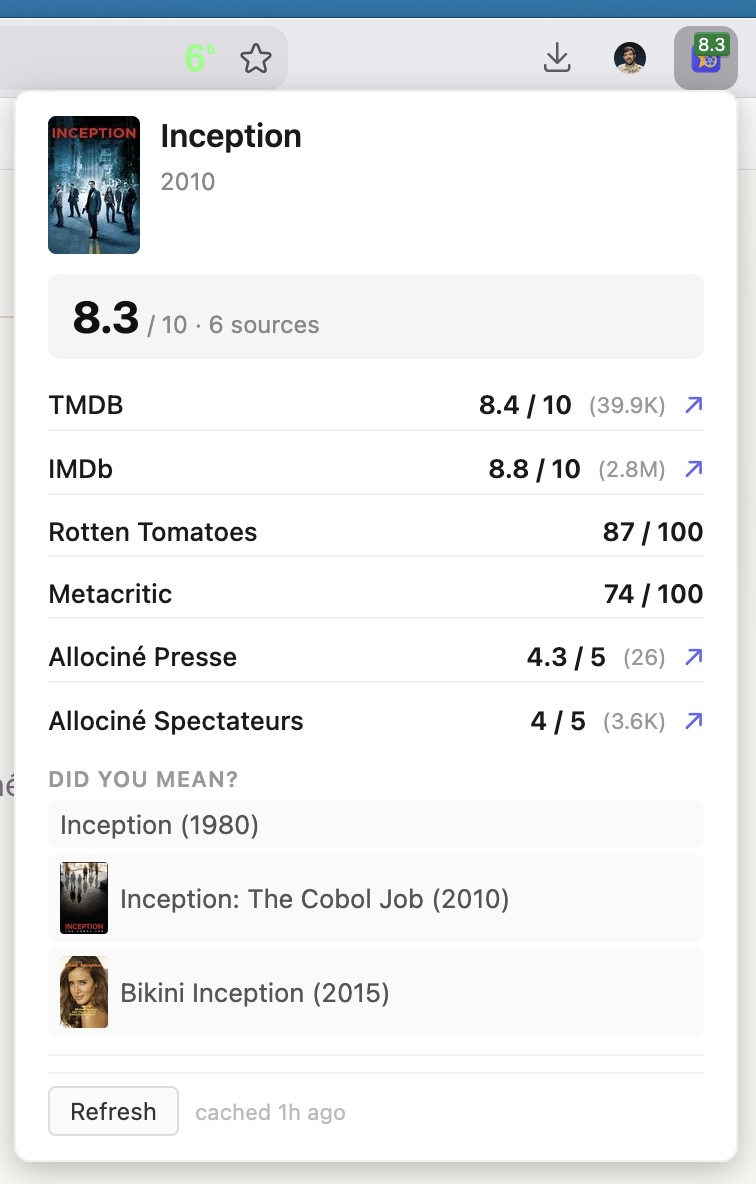
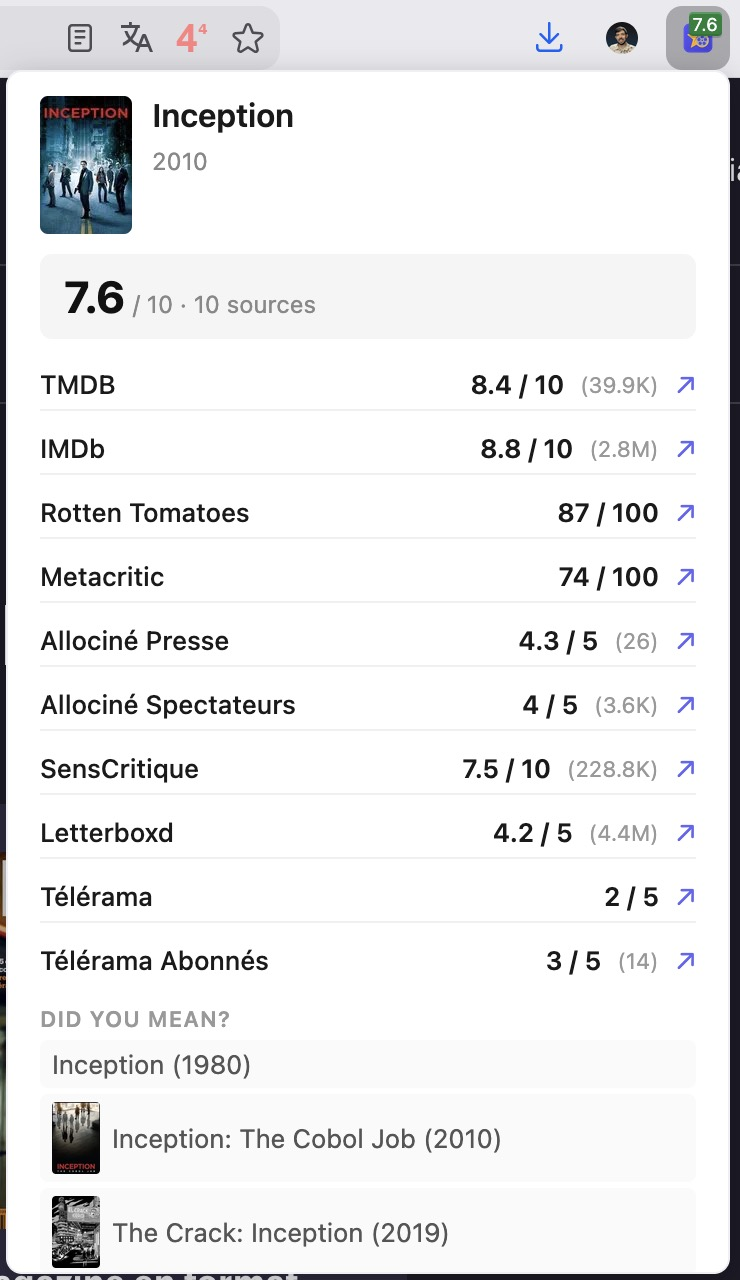
✨ feat: v2 features

diff --git a/index.html b/index.html
@@ -1,12 +1,12 @@
 <meta charset="utf-8">
 <meta name="viewport" content="width=device-width, initial-scale=1">
 <title>Ratearr</title>
-<meta name="description" content="Ratearr aggregates movie and TV ratings from 6 sources — including Allocin&eacute; critics and audience — right in your browser toolbar. One glance, every score.">
+<meta name="description" content="Ratearr aggregates movie and TV ratings from 10 sources — including Allocin&eacute;, SensCritique, Letterboxd, and T&eacute;l&eacute;rama — right in your browser toolbar. One glance, every score.">
 
 <!-- Open Graph -->
 <meta property="og:type" content="website">
 <meta property="og:title" content="Ratearr — Every movie rating. One glance.">
-<meta property="og:description" content="Ratearr aggregates movie and TV ratings from 6 sources — including Allocin&eacute; critics and audience — right in your browser toolbar.">
+<meta property="og:description" content="Ratearr aggregates movie and TV ratings from 10 sources — including Allocin&eacute;, SensCritique, Letterboxd, and T&eacute;l&eacute;rama — right in your browser toolbar.">
 <meta property="og:url" content="https://www.ratearr.com/">
 <meta property="og:image" content="https://www.ratearr.com/assets/img/icon-512.png">
 <meta property="og:image:width" content="512">
@@ -19,7 +19,7 @@
 <!-- Twitter Card -->
 <meta name="twitter:card" content="summary">
 <meta name="twitter:title" content="Ratearr — Every movie rating. One glance.">
-<meta name="twitter:description" content="Ratearr aggregates movie and TV ratings from 6 sources — including Allocin&eacute; critics and audience — right in your browser toolbar.">
+<meta name="twitter:description" content="Ratearr aggregates movie and TV ratings from 10 sources — including Allocin&eacute;, SensCritique, Letterboxd, and T&eacute;l&eacute;rama — right in your browser toolbar.">
 <meta name="twitter:image" content="https://www.ratearr.com/assets/img/icon-512.png">
 <meta name="twitter:image:alt" content="Ratearr logo">
 
@@ -225,8 +225,8 @@
     letter-spacing: 1.4px; color: var(--muted); margin-bottom: 20px;
   }
   .sources-strip {
-    display: grid; grid-template-columns: repeat(3, 1fr);
-    gap: 10px; max-width: 420px; margin: 0 auto;
+    display: grid; grid-template-columns: repeat(5, 1fr);
+    gap: 10px; max-width: 680px; margin: 0 auto;
   }
   .source-chip {
     display: flex; flex-direction: column; align-items: center; gap: 4px;
@@ -311,7 +311,11 @@
     padding: 0 16px 14px 44px; font-size: 13px; color: var(--muted); line-height: 1.6;
   }
 
+  @media (max-width: 680px) {
+    .sources-strip { grid-template-columns: repeat(3, 1fr); }
+  }
   @media (max-width: 520px) {
+    .sources-strip { grid-template-columns: repeat(2, 1fr); }
     .safety-grid { grid-template-columns: 1fr; }
   }
 
@@ -382,7 +386,7 @@
         <h1 data-i18n-html="hero_title">Every movie rating.<br><em>One glance.</em></h1>
       </div>
     </div>
-    <p class="hero-sub" data-i18n="hero_sub">Ratearr aggregates scores from 6 sources — including Allocin&eacute; critics and audience as separate ratings — right in your browser toolbar.</p>
+    <p class="hero-sub" data-i18n="hero_sub">Ratearr aggregates scores from 10 sources — TMDB, IMDb, Rotten Tomatoes, Metacritic, Allocin&eacute;, SensCritique, Letterboxd, and T&eacute;l&eacute;rama — right in your browser toolbar.</p>
     <div class="cta-row">
       <a class="btn btn-primary" href="https://addons.mozilla.org/" data-i18n="cta_install">Install for Firefox</a>
       <a class="btn btn-secondary" href="https://github.com/davidaparicio/ratearr" data-i18n="cta_source">View Source</a>
@@ -398,8 +402,8 @@
           </div>
         </div>
         <div class="mock-aggregate">
-          <span class="mock-agg-score">8.3</span>
-          <span class="mock-agg-meta">/ 10 &middot; 6 sources</span>
+          <span class="mock-agg-score">8.2</span>
+          <span class="mock-agg-meta">/ 10 &middot; 8 sources</span>
         </div>
         <div class="mock-row">
           <span class="mock-source">TMDB</span>
@@ -416,10 +420,12 @@
         <div class="mock-row">
           <span class="mock-source">Rotten Tomatoes</span>
           <span class="mock-value">87 / 100</span>
+          <span class="mock-link" data-i18n-title="tip_rt" title="Search Inception on Rotten Tomatoes">&nearr;</span>
         </div>
         <div class="mock-row">
           <span class="mock-source">Metacritic</span>
           <span class="mock-value">74 / 100</span>
+          <span class="mock-link" data-i18n-title="tip_metacritic" title="Search Inception on Metacritic">&nearr;</span>
         </div>
         <div class="mock-row">
           <span class="mock-source">Allocin&eacute; Presse</span>
@@ -433,18 +439,30 @@
           <span class="mock-count">(3.6K)</span>
           <span class="mock-link" data-i18n-title="tip_allocine" title="View Inception on Allocin&eacute;">&nearr;</span>
         </div>
+        <div class="mock-row">
+          <span class="mock-source">SensCritique</span>
+          <span class="mock-value">7.5 / 10</span>
+          <span class="mock-count">(228.8K)</span>
+          <span class="mock-link" data-i18n-title="tip_senscritique" title="View Inception on SensCritique">&nearr;</span>
+        </div>
+        <div class="mock-row">
+          <span class="mock-source">Letterboxd</span>
+          <span class="mock-value">4.2 / 5</span>
+          <span class="mock-count">(4.4M)</span>
+          <span class="mock-link" data-i18n-title="tip_letterboxd" title="View Inception on Letterboxd">&nearr;</span>
+        </div>
         <div class="mock-dym">
           <div class="mock-dym-header" data-i18n="mock_dym">Did you mean?</div>
           <div class="mock-dym-row">Inception (1980)</div>
           <div class="mock-dym-row">Inception: The Cobol Job (2010)</div>
-          <div class="mock-dym-row">Bikini Inception (2015)</div>
+          <div class="mock-dym-row">The Crack: Inception (2019)</div>
         </div>
       </div>
     </div>
   </section>
 
   <section class="sources-section" id="sources">
-    <div class="section-label" data-i18n="sources_label">6 sources, native scales</div>
+    <div class="section-label" data-i18n="sources_label">10 sources, native scales</div>
     <div class="sources-strip">
       <div class="source-chip"><span class="chip-name">TMDB</span><span class="chip-scale">/ 10</span></div>
       <div class="source-chip"><span class="chip-name">IMDb</span><span class="chip-scale">/ 10</span></div>
@@ -452,6 +470,10 @@
       <div class="source-chip"><span class="chip-name">Metacritic</span><span class="chip-scale">/ 100</span></div>
       <div class="source-chip"><span class="chip-name">Allocin&eacute; Presse</span><span class="chip-scale">/ 5</span></div>
       <div class="source-chip"><span class="chip-name">Allocin&eacute; Spectateurs</span><span class="chip-scale">/ 5</span></div>
+      <div class="source-chip"><span class="chip-name">SensCritique</span><span class="chip-scale">/ 10</span></div>
+      <div class="source-chip"><span class="chip-name">Letterboxd</span><span class="chip-scale">/ 5</span></div>
+      <div class="source-chip"><span class="chip-name">T&eacute;l&eacute;rama</span><span class="chip-scale">/ 5</span></div>
+      <div class="source-chip"><span class="chip-name">T&eacute;l&eacute;rama Abonn&eacute;s</span><span class="chip-scale">/ 5</span></div>
     </div>
   </section>
 
@@ -461,7 +483,7 @@
       <div class="feature-card">
         <span class="feature-icon" aria-hidden="true">&#9881;</span>
         <h3 data-i18n="f1_title">Auto-detect</h3>
-        <p data-i18n="f1_desc">Recognizes titles on IMDb, TMDB, and Allocin&eacute; automatically — including SPA page transitions.</p>
+        <p data-i18n="f1_desc">Recognizes titles on 8 sites — IMDb, TMDB, Allocin&eacute;, Netflix, Prime Video, and Disney+ — including SPA transitions.</p>
       </div>
       <div class="feature-card">
         <span class="feature-icon" aria-hidden="true">&#128269;</span>
@@ -488,6 +510,16 @@
         <h3 data-i18n="f6_title">Allocin&eacute; split</h3>
         <p data-i18n="f6_desc">The only aggregator that shows Allocin&eacute; critics and audience scores as separate ratings.</p>
       </div>
+      <div class="feature-card">
+        <span class="feature-icon" aria-hidden="true">&#9000;</span>
+        <h3 data-i18n="f7_title">Keyboard shortcut</h3>
+        <p data-i18n="f7_desc">Press Alt+R to open the popup instantly. Customizable in your browser's extension shortcuts.</p>
+      </div>
+      <div class="feature-card">
+        <span class="feature-icon" aria-hidden="true">&#128230;</span>
+        <h3 data-i18n="f8_title">Export / Import</h3>
+        <p data-i18n="f8_desc">Back up your settings as JSON from the options page. Restore them on any browser in one click.</p>
+      </div>
     </div>
   </section>
 
@@ -502,12 +534,12 @@
       <div class="step">
         <div class="step-num">2</div>
         <h3 data-i18n="s2_title">Browse</h3>
-        <p data-i18n="s2_desc">Visit any movie page on IMDb, TMDB, or Allocin&eacute;. Or select a title anywhere and right-click.</p>
+        <p data-i18n="s2_desc">Visit any movie page on IMDb, TMDB, Allocin&eacute;, Netflix, Prime Video, or Disney+. Or select a title anywhere and right-click.</p>
       </div>
       <div class="step">
         <div class="step-num">3</div>
         <h3 data-i18n="s3_title">Compare</h3>
-        <p data-i18n="s3_desc">Click the toolbar icon. Six sources, native scales, one popup. The badge shows the aggregate.</p>
+        <p data-i18n="s3_desc">Click the toolbar icon — or press Alt+R. Ten sources, native scales, one popup. The badge shows the aggregate.</p>
       </div>
     </div>
   </section>
@@ -520,7 +552,7 @@
         <span class="safety-icon" aria-hidden="true">&#10007;</span>
         <div>
           <strong data-i18n="ds1_title">No data shared with third parties</strong>
-          <p data-i18n="ds1_desc">Ratearr never sends your data to third parties. API calls go directly from your browser to TMDB, OMDb, and Allocin&eacute;.</p>
+          <p data-i18n="ds1_desc">Ratearr never sends your data to third parties. API calls go directly from your browser to TMDB, OMDb, Allocin&eacute;, SensCritique, Letterboxd, and T&eacute;l&eacute;rama.</p>
         </div>
       </div>
       <div class="safety-item safety-good">
@@ -561,7 +593,7 @@
       </details>
       <details class="faq-item">
         <summary data-i18n="q4">Does Ratearr work on Chrome?</summary>
-        <p data-i18n="a4">The MVP targets Firefox. Chrome support (Manifest V3) is planned. The codebase uses WXT which handles cross-browser builds.</p>
+        <p data-i18n="a4">The MVP targets Firefox. The codebase uses WXT, which supports Chrome, Firefox, Edge, Opera, and Safari out of the box. Use the <code>-b</code> flag to target any browser (e.g.&nbsp;<code>npm&nbsp;run&nbsp;build:firefox</code>, <code>npx&nbsp;wxt&nbsp;build&nbsp;-b&nbsp;edge</code>). Chrome and Edge produce MV3 builds; Firefox and Safari produce MV2.</p>
       </details>
     </div>
   </section>
@@ -581,7 +613,7 @@ const I18N = {
     nav_features: 'Features',
     hero_eyebrow: 'Browser Extension',
     hero_title: 'Every movie rating.<br><em>One glance.</em>',
-    hero_sub: 'Ratearr aggregates scores from 6 sources — including Allociné critics and audience as separate ratings — right in your browser toolbar.',
+    hero_sub: 'Ratearr aggregates scores from 10 sources — TMDB, IMDb, Rotten Tomatoes, Metacritic, Allociné, SensCritique, Letterboxd, and Télérama — right in your browser toolbar.',
     cta_install: 'Install for Firefox',
     cta_source: 'View Source',
     mock_aria: 'Ratearr popup showing ratings for Inception',
@@ -589,10 +621,14 @@ const I18N = {
     tip_tmdb: 'View Inception on TMDB',
     tip_imdb: 'View Inception on IMDb',
     tip_allocine: 'View Inception on Allociné',
-    sources_label: '6 sources, native scales',
+    tip_rt: 'Search Inception on Rotten Tomatoes',
+    tip_metacritic: 'Search Inception on Metacritic',
+    tip_senscritique: 'View Inception on SensCritique',
+    tip_letterboxd: 'View Inception on Letterboxd',
+    sources_label: '10 sources, native scales',
     features_title: 'Built for how you browse',
     f1_title: 'Auto-detect',
-    f1_desc: 'Recognizes titles on IMDb, TMDB, and Allociné automatically — including SPA page transitions.',
+    f1_desc: 'Recognizes titles on 8 sites — IMDb, TMDB, Allociné, Netflix, Prime Video, and Disney+ — including SPA transitions.',
     f2_title: 'Context Menu',
     f2_desc: 'Select any movie title on any page, right-click, and get ratings instantly.',
     f3_title: 'Bilingual',
@@ -603,17 +639,21 @@ const I18N = {
     f5_desc: 'Ratings are cached locally with a configurable TTL. Repeat visits load instantly.',
     f6_title: 'Allociné split',
     f6_desc: 'The only aggregator that shows Allociné critics and audience scores as separate ratings.',
+    f7_title: 'Keyboard shortcut',
+    f7_desc: 'Press Alt+R to open the popup instantly. Customizable in your browser’s extension shortcuts.',
+    f8_title: 'Export / Import',
+    f8_desc: 'Back up your settings as JSON from the options page. Restore them on any browser in one click.',
     how_title: 'Three steps to all the scores',
     s1_title: 'Install',
     s1_desc: 'Add Ratearr from Firefox Add-ons. Enter your TMDB and OMDb API keys in Settings.',
     s2_title: 'Browse',
-    s2_desc: 'Visit any movie page on IMDb, TMDB, or Allociné. Or select a title anywhere and right-click.',
+    s2_desc: 'Visit any movie page on IMDb, TMDB, Allociné, Netflix, Prime Video, or Disney+. Or select a title anywhere and right-click.',
     s3_title: 'Compare',
-    s3_desc: 'Click the toolbar icon. Six sources, native scales, one popup. The badge shows the aggregate.',
+    s3_desc: 'Click the toolbar icon — or press Alt+R. Ten sources, native scales, one popup. The badge shows the aggregate.',
     nav_faq: 'FAQ',
     faq_title: 'Data Safety & FAQ',
     ds1_title: 'No data shared with third parties',
-    ds1_desc: 'Ratearr never sends your data to third parties. API calls go directly from your browser to TMDB, OMDb, and Allociné.',
+    ds1_desc: 'Ratearr never sends your data to third parties. API calls go directly from your browser to TMDB, OMDb, Allociné, SensCritique, Letterboxd, and Télérama.',
     ds2_title: 'No personal data collected',
     ds2_desc: 'No location, no personal info, no browsing history. The extension only processes the movie title on the current page.',
     ds3_title: 'Data encrypted in transit',
@@ -627,14 +667,14 @@ const I18N = {
     q3: 'Can I delete my cached data?',
     a3: 'Yes. Open the extension options and click "Clear Cache". This removes all stored ratings. Your API keys can be cleared from the same page.',
     q4: 'Does Ratearr work on Chrome?',
-    a4: 'The MVP targets Firefox. Chrome support (Manifest V3) is planned. The codebase uses WXT which handles cross-browser builds.',
+    a4: 'The MVP targets Firefox. The codebase uses WXT, which supports Chrome, Firefox, Edge, Opera, and Safari out of the box. Use the -b flag to target any browser (e.g. npm run build:firefox, npx wxt build -b edge). Chrome and Edge produce MV3 builds; Firefox and Safari produce MV2.',
     footer: 'Built by <a href="https://github.com/davidaparicio">David Aparicio</a> · Open source under MIT',
   },
   fr: {
     nav_features: 'Fonctions',
     hero_eyebrow: 'Extension navigateur',
     hero_title: 'Toutes les notes de films.<br><em>En un coup d’œil.</em>',
-    hero_sub: 'Ratearr regroupe les notes de 6 sources — dont la Presse et les Spectateurs d’Allociné en scores distincts — directement dans votre barre d’outils.',
+    hero_sub: ‘Ratearr regroupe les notes de 10 sources — TMDB, IMDb, Rotten Tomatoes, Metacritic, Allociné, SensCritique, Letterboxd et Télérama — directement dans votre barre d’outils.’,
     cta_install: 'Installer pour Firefox',
     cta_source: 'Voir le code',
     mock_aria: 'Popup Ratearr affichant les notes d’Inception',
@@ -642,10 +682,14 @@ const I18N = {
     tip_tmdb: 'Voir Inception sur TMDB',
     tip_imdb: 'Voir Inception sur IMDb',
     tip_allocine: 'Voir Inception sur Allociné',
-    sources_label: '6 sources, échelles natives',
+    tip_rt: 'Chercher Inception sur Rotten Tomatoes',
+    tip_metacritic: 'Chercher Inception sur Metacritic',
+    tip_senscritique: 'Voir Inception sur SensCritique',
+    tip_letterboxd: 'Voir Inception sur Letterboxd',
+    sources_label: '10 sources, échelles natives',
     features_title: 'Conçu pour votre navigation',
     f1_title: 'Détection auto',
-    f1_desc: 'Reconnaît les titres sur IMDb, TMDB et Allociné automatiquement — y compris les navigations SPA.',
+    f1_desc: 'Reconnaît les titres sur 8 sites — IMDb, TMDB, Allociné, Netflix, Prime Video et Disney+ — y compris les navigations SPA.',
     f2_title: 'Menu contextuel',
     f2_desc: 'Sélectionnez un titre de film sur n’importe quelle page, clic droit, et obtenez les notes instantanément.',
     f3_title: 'Bilingue',
@@ -654,19 +698,23 @@ const I18N = {
     f4_desc: 'Aucun tracking, aucune analyse, aucun compte. Les clés API restent dans le stockage local de votre navigateur.',
     f5_title: 'Cache rapide',
     f5_desc: 'Les notes sont mises en cache localement avec un TTL configurable. Les revisites chargent instantanément.',
-    f6_title: 'Allociné séparé',
-    f6_desc: 'Le seul agrégateur qui affiche les notes Presse et Spectateurs d’Allociné comme deux scores distincts.',
-    how_title: 'Trois étapes pour toutes les notes',
+    f6_title: ‘Allociné séparé’,
+    f6_desc: ‘Le seul agrégateur qui affiche les notes Presse et Spectateurs d’Allociné comme deux scores distincts.’,
+    f7_title: ‘Raccourci clavier’,
+    f7_desc: ‘Appuyez sur Alt+R pour ouvrir la popup instantanément. Personnalisable dans les raccourcis d’extensions de votre navigateur.’,
+    f8_title: ‘Export / Import’,
+    f8_desc: ‘Sauvegardez vos paramètres en JSON depuis la page d’options. Restaurez-les sur n’importe quel navigateur en un clic.’,
+    how_title: ‘Trois étapes pour toutes les notes’,
     s1_title: 'Installer',
     s1_desc: 'Ajoutez Ratearr depuis les modules Firefox. Entrez vos clés API TMDB et OMDb dans les paramètres.',
     s2_title: 'Naviguer',
-    s2_desc: 'Visitez une page de film sur IMDb, TMDB ou Allociné. Ou sélectionnez un titre et faites clic droit.',
-    s3_title: 'Comparer',
-    s3_desc: 'Cliquez sur l’icône dans la barre d’outils. Six sources, échelles natives, une popup. Le badge affiche la moyenne.',
+    s2_desc: ‘Visitez une page de film sur IMDb, TMDB, Allociné, Netflix, Prime Video ou Disney+. Ou sélectionnez un titre et faites clic droit.’,
+    s3_title: ‘Comparer’,
+    s3_desc: ‘Cliquez sur l’icône — ou appuyez sur Alt+R. Dix sources, échelles natives, une popup. Le badge affiche la moyenne.’,
     nav_faq: 'FAQ',
     faq_title: 'Confidentialité & FAQ',
     ds1_title: 'Aucune donnée partagée avec des tiers',
-    ds1_desc: 'Ratearr n’envoie jamais vos données à des tiers. Les appels API vont directement de votre navigateur vers TMDB, OMDb et Allociné.',
+    ds1_desc: ‘Ratearr n’envoie jamais vos données à des tiers. Les appels API vont directement de votre navigateur vers TMDB, OMDb, Allociné, SensCritique, Letterboxd et Télérama.’,
     ds2_title: 'Aucune donnée personnelle collectée',
     ds2_desc: 'Pas de localisation, pas d’infos personnelles, pas d’historique de navigation. L’extension ne traite que le titre du film sur la page en cours.',
     ds3_title: 'Données chiffrées en transit',
@@ -680,7 +728,7 @@ const I18N = {
     q3: 'Puis-je supprimer mes données en cache ?',
     a3: 'Oui. Ouvrez les options de l’extension et cliquez sur « Vider le cache ». Cela supprime toutes les notes stockées. Vos clés API peuvent être effacées depuis la même page.',
     q4: 'Ratearr fonctionne-t-il sur Chrome ?',
-    a4: 'Le MVP cible Firefox. Le support Chrome (Manifest V3) est prévu. Le code utilise WXT qui gère les builds multi-navigateurs.',
+    a4: 'Le MVP cible Firefox. Le code utilise WXT, qui supporte Chrome, Firefox, Edge, Opera et Safari nativement. Utilisez le flag -b pour cibler un navigateur (ex. npm run build:firefox, npx wxt build -b edge). Chrome et Edge produisent des builds MV3 ; Firefox et Safari produisent du MV2.',
     footer: 'Créé par <a href="https://github.com/davidaparicio">David Aparicio</a> · Open source sous licence MIT',
   },
 };
